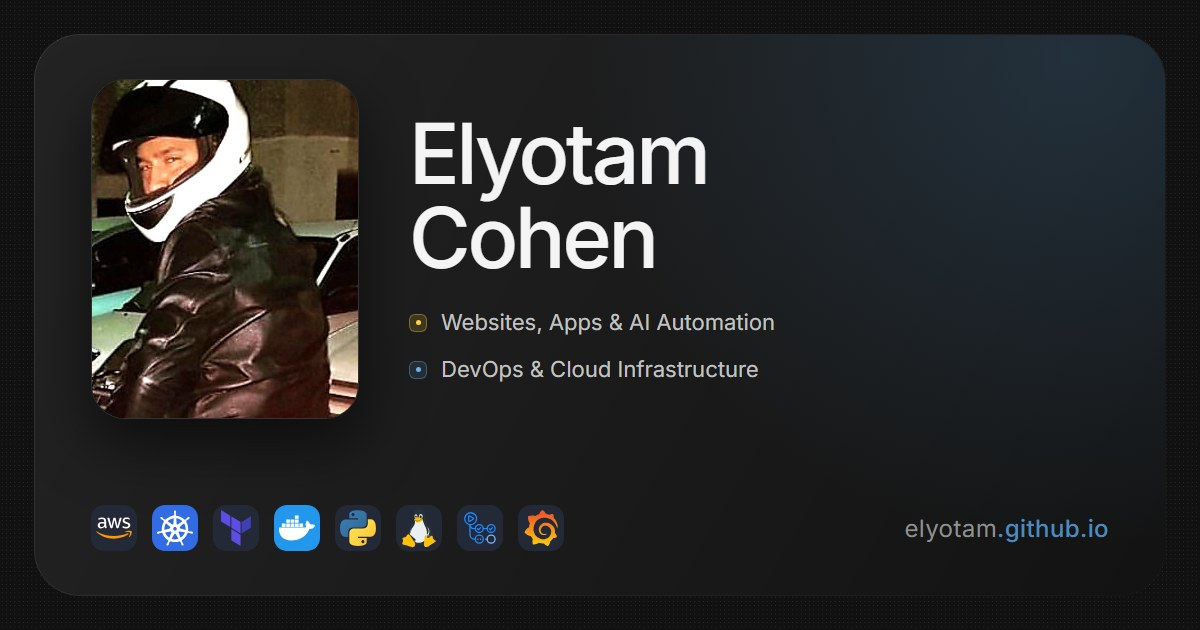
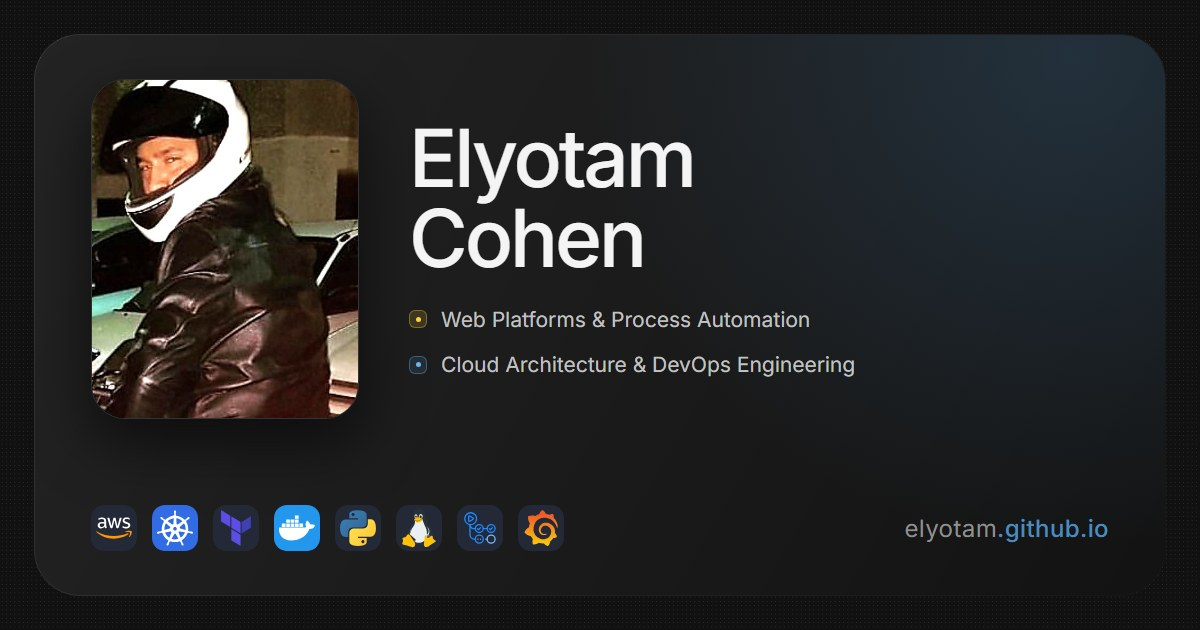
Reposition: web platforms, process automation, cloud architecture
Drops every mention of AI and states the two disciplines plainly instead:

  Websites, Apps & AI Automation  ->  Web Platforms & Process Automation
  DevOps & Cloud Infrastructure   ->  Cloud Architecture & DevOps Engineering

Eighteen places in all -- the role lines, the page title, the description and
the Open Graph and Twitter tags on four pages, both CV entries, the education
line, and the bio, which now leads with design and architecture rather than
listing what gets built.

Four discipline chips sit under the bio on the About page, where the CSS for
them already existed but the markup never did.

The share card had the old roles baked into the pixels, so it is regenerated.

The one remaining mention is in the course README page: it describes what the
college teaches, in their words, not what Elyotam does.

Changed region(s): [[0.3392, 0.181, 0.5858, 0.4222], [0.3392, 0.4825, 0.7092, 0.6032]]

diff --git a/index.html b/index.html
@@ -3,23 +3,23 @@
 <head>
 <meta charset="utf-8">
 <meta name="viewport" content="width=device-width, initial-scale=1">
-<title>Elyotam Cohen — Websites, Apps &amp; AI Automation</title>
-<meta name="description" content="Elyotam Cohen builds websites, apps and AI automation, and runs the infrastructure behind them on AWS, Kubernetes and Terraform.">
+<title>Elyotam Cohen — Web Platforms, Automation &amp; Cloud Architecture</title>
+<meta name="description" content="Elyotam Cohen designs and builds web platforms and process automation, and architects the cloud infrastructure that runs them on AWS, Kubernetes and Terraform.">
 <meta name="theme-color" content="#0a0a0a">
 <link rel="canonical" href="https://elyotam.github.io/">
 <link rel="icon" href="assets/favicon.svg" type="image/svg+xml">
 <meta property="og:type" content="website">
 <meta property="og:site_name" content="Elyotam Cohen">
-<meta property="og:title" content="Elyotam Cohen — Websites, Apps &amp; AI Automation">
-<meta property="og:description" content="Websites, apps and AI automation, plus the AWS, Kubernetes and Terraform infrastructure that runs them.">
+<meta property="og:title" content="Elyotam Cohen — Web Platforms, Automation &amp; Cloud Architecture">
+<meta property="og:description" content="Web platforms and process automation, and the cloud architecture that runs them.">
 <meta property="og:url" content="https://elyotam.github.io/">
 <meta property="og:image" content="https://elyotam.github.io/assets/og.jpg">
 <meta property="og:image:width" content="1200">
 <meta property="og:image:height" content="630">
-<meta property="og:image:alt" content="Elyotam Cohen — websites, apps and AI automation">
+<meta property="og:image:alt" content="Elyotam Cohen — web platforms, process automation and cloud architecture">
 <meta name="twitter:card" content="summary_large_image">
-<meta name="twitter:title" content="Elyotam Cohen — Websites, Apps &amp; AI Automation">
-<meta name="twitter:description" content="Websites, apps and AI automation, plus the AWS, Kubernetes and Terraform infrastructure that runs them.">
+<meta name="twitter:title" content="Elyotam Cohen — Web Platforms, Automation &amp; Cloud Architecture">
+<meta name="twitter:description" content="Web platforms and process automation, and the cloud architecture that runs them.">
 <meta name="twitter:image" content="https://elyotam.github.io/assets/og.jpg">
 <link rel="preconnect" href="https://fonts.googleapis.com">
 <link rel="preconnect" href="https://fonts.gstatic.com" crossorigin>
@@ -334,8 +334,8 @@
       <div>
         <h1>Elyotam<br>Cohen</h1>
         <div class="roles">
-          <span><em></em>Websites, Apps &amp; AI Automation</span>
-          <span><em></em>DevOps &amp; Cloud Infrastructure</span>
+          <span><em></em>Web Platforms &amp; Process Automation</span>
+          <span><em></em>Cloud Architecture &amp; DevOps Engineering</span>
         </div>
       </div>
       <span class="plus"><svg viewBox="0 0 46 42" fill="none" aria-hidden="true"><path d="M30.9224 21.2014C25.1291 21.2014 24.618 24.7796 24.618 27.3354C24.618 21.5421 21.5509 21.2014 17.9727 21.2014C24.618 21.2014 24.618 17.2824 24.618 14.8969C24.618 20.3494 27.8554 21.2014 30.9224 21.2014Z" fill="currentColor" stroke="currentColor"/><rect y="21.6981" width="1" height="18" transform="rotate(-90 0 21.6981)" fill="currentColor"/><path d="M9.93715 16.8555C10.9514 13.0701 13.2829 9.77074 16.5123 7.55063C19.7417 5.33052 23.6571 4.33531 27.5547 4.74394C31.4522 5.15258 35.0762 6.93825 37.7749 9.77989C40.4736 12.6215 42.07 16.3327 42.2771 20.2461C42.4842 24.1596 41.2884 28.0185 38.9047 31.1291C36.5211 34.2398 33.1059 36.398 29.2732 37.2157C25.4406 38.0335 21.4419 37.4571 17.9962 35.5903C14.5505 33.7234 11.8839 30.6886 10.4757 27.0314" stroke="currentColor" stroke-width="1.5" stroke-linecap="round"/></svg></span>

diff --git a/about.html b/about.html
@@ -4,7 +4,7 @@
 <meta charset="utf-8">
 <meta name="viewport" content="width=device-width, initial-scale=1">
 <title>About — Elyotam Cohen</title>
-<meta name="description" content="Elyotam Cohen — websites, apps and AI automation, plus the infrastructure that runs them.">
+<meta name="description" content="Elyotam Cohen — web platforms, process automation, and the cloud architecture that runs them.">
 <meta name="theme-color" content="#111111">
 <link rel="canonical" href="https://elyotam.github.io/about.html">
 <link rel="icon" href="assets/favicon.svg" type="image/svg+xml">
@@ -16,7 +16,7 @@
 <meta property="og:image" content="https://elyotam.github.io/assets/og.jpg">
 <meta property="og:image:width" content="1200">
 <meta property="og:image:height" content="630">
-<meta property="og:image:alt" content="Elyotam Cohen — websites, apps and AI automation">
+<meta property="og:image:alt" content="Elyotam Cohen — web platforms, process automation and cloud architecture">
 <meta name="twitter:card" content="summary_large_image">
 <meta name="twitter:title" content="About — Elyotam Cohen">
 <meta name="twitter:description" content="Who I am, what I build, and the 34 tools I actually reach for.">
@@ -192,11 +192,16 @@
           <svg viewBox="0 0 40 52"><path d="M20 0c.7 14 3 20 12 24-9 4-11.3 10-12 24-.7-14-3-20-12-24 9-4 11.3-10 12-24z"/></svg>
         </div>
         <h2>Elyotam Cohen</h2>
-        <p>I build websites, web apps and online stores, and I automate the parts of a
-          business that should not need a person in front of them. The other half of
-          what I do is infrastructure &mdash; containers, orchestration and
-          infrastructure as code on AWS &mdash; so the thing I built is also the thing
-          I can keep running. Lately most of my time goes into AI automation.</p>
+        <p>I design and build web platforms &mdash; sites, applications and online stores
+          &mdash; and I automate the operational work that should not need a person
+          sitting in front of it. The other half of what I do is architecture:
+          containers, orchestration and infrastructure as code on AWS, so the system
+          I designed is also the system I can run. I would rather own a thing end to
+          end than hand it across a border and hope.</p>
+        <div class="facts">
+          <span>Web platforms</span><span>Process automation</span>
+          <span>Cloud architecture</span><span>Infrastructure as code</span>
+        </div>
       </div>
     </div>
 
@@ -205,12 +210,12 @@
       <div class="rail">
       <div class="entry now">
         <p class="when">Present</p>
-        <p class="what">Web &amp; AI Automation Developer</p>
-        <p class="where">Sites, apps and automated workflows</p>
+        <p class="what">Web Platforms &amp; Process Automation</p>
+        <p class="where">Platforms, applications and automated operations</p>
       </div>
       <div class="entry now">
         <p class="when">Present</p>
-        <p class="what">DevOps &amp; Cloud Infrastructure</p>
+        <p class="what">Cloud Architecture &amp; DevOps Engineering</p>
         <p class="where">AWS, Kubernetes, Terraform, CI/CD</p>
       </div>
       </div>
@@ -227,7 +232,7 @@
       </div>
       <div class="entry now">
         <p class="when">Ongoing</p>
-        <p class="what">Self-taught web &amp; AI engineering</p>
+        <p class="what">Self-taught software &amp; systems engineering</p>
         <p class="where">Shipping is the syllabus</p>
       </div>
       </div>

diff --git a/projects.html b/projects.html
@@ -16,7 +16,7 @@
 <meta property="og:image" content="https://elyotam.github.io/assets/og.jpg">
 <meta property="og:image:width" content="1200">
 <meta property="og:image:height" content="630">
-<meta property="og:image:alt" content="Elyotam Cohen — websites, apps and AI automation">
+<meta property="og:image:alt" content="Elyotam Cohen — web platforms, process automation and cloud architecture">
 <meta name="twitter:card" content="summary_large_image">
 <meta name="twitter:title" content="Projects — Elyotam Cohen">
 <meta name="twitter:description" content="Client sites, Terraform modules, Kubernetes deployments and an Etsy shop — with live demos and source.">

diff --git a/contact.html b/contact.html
@@ -16,7 +16,7 @@
 <meta property="og:image" content="https://elyotam.github.io/assets/og.jpg">
 <meta property="og:image:width" content="1200">
 <meta property="og:image:height" content="630">
-<meta property="og:image:alt" content="Elyotam Cohen — websites, apps and AI automation">
+<meta property="og:image:alt" content="Elyotam Cohen — web platforms, process automation and cloud architecture">
 <meta name="twitter:card" content="summary_large_image">
 <meta name="twitter:title" content="Contact — Elyotam Cohen">
 <meta name="twitter:description" content="A site, an app, or an automation you keep doing by hand — send it straight to my WhatsApp.">
